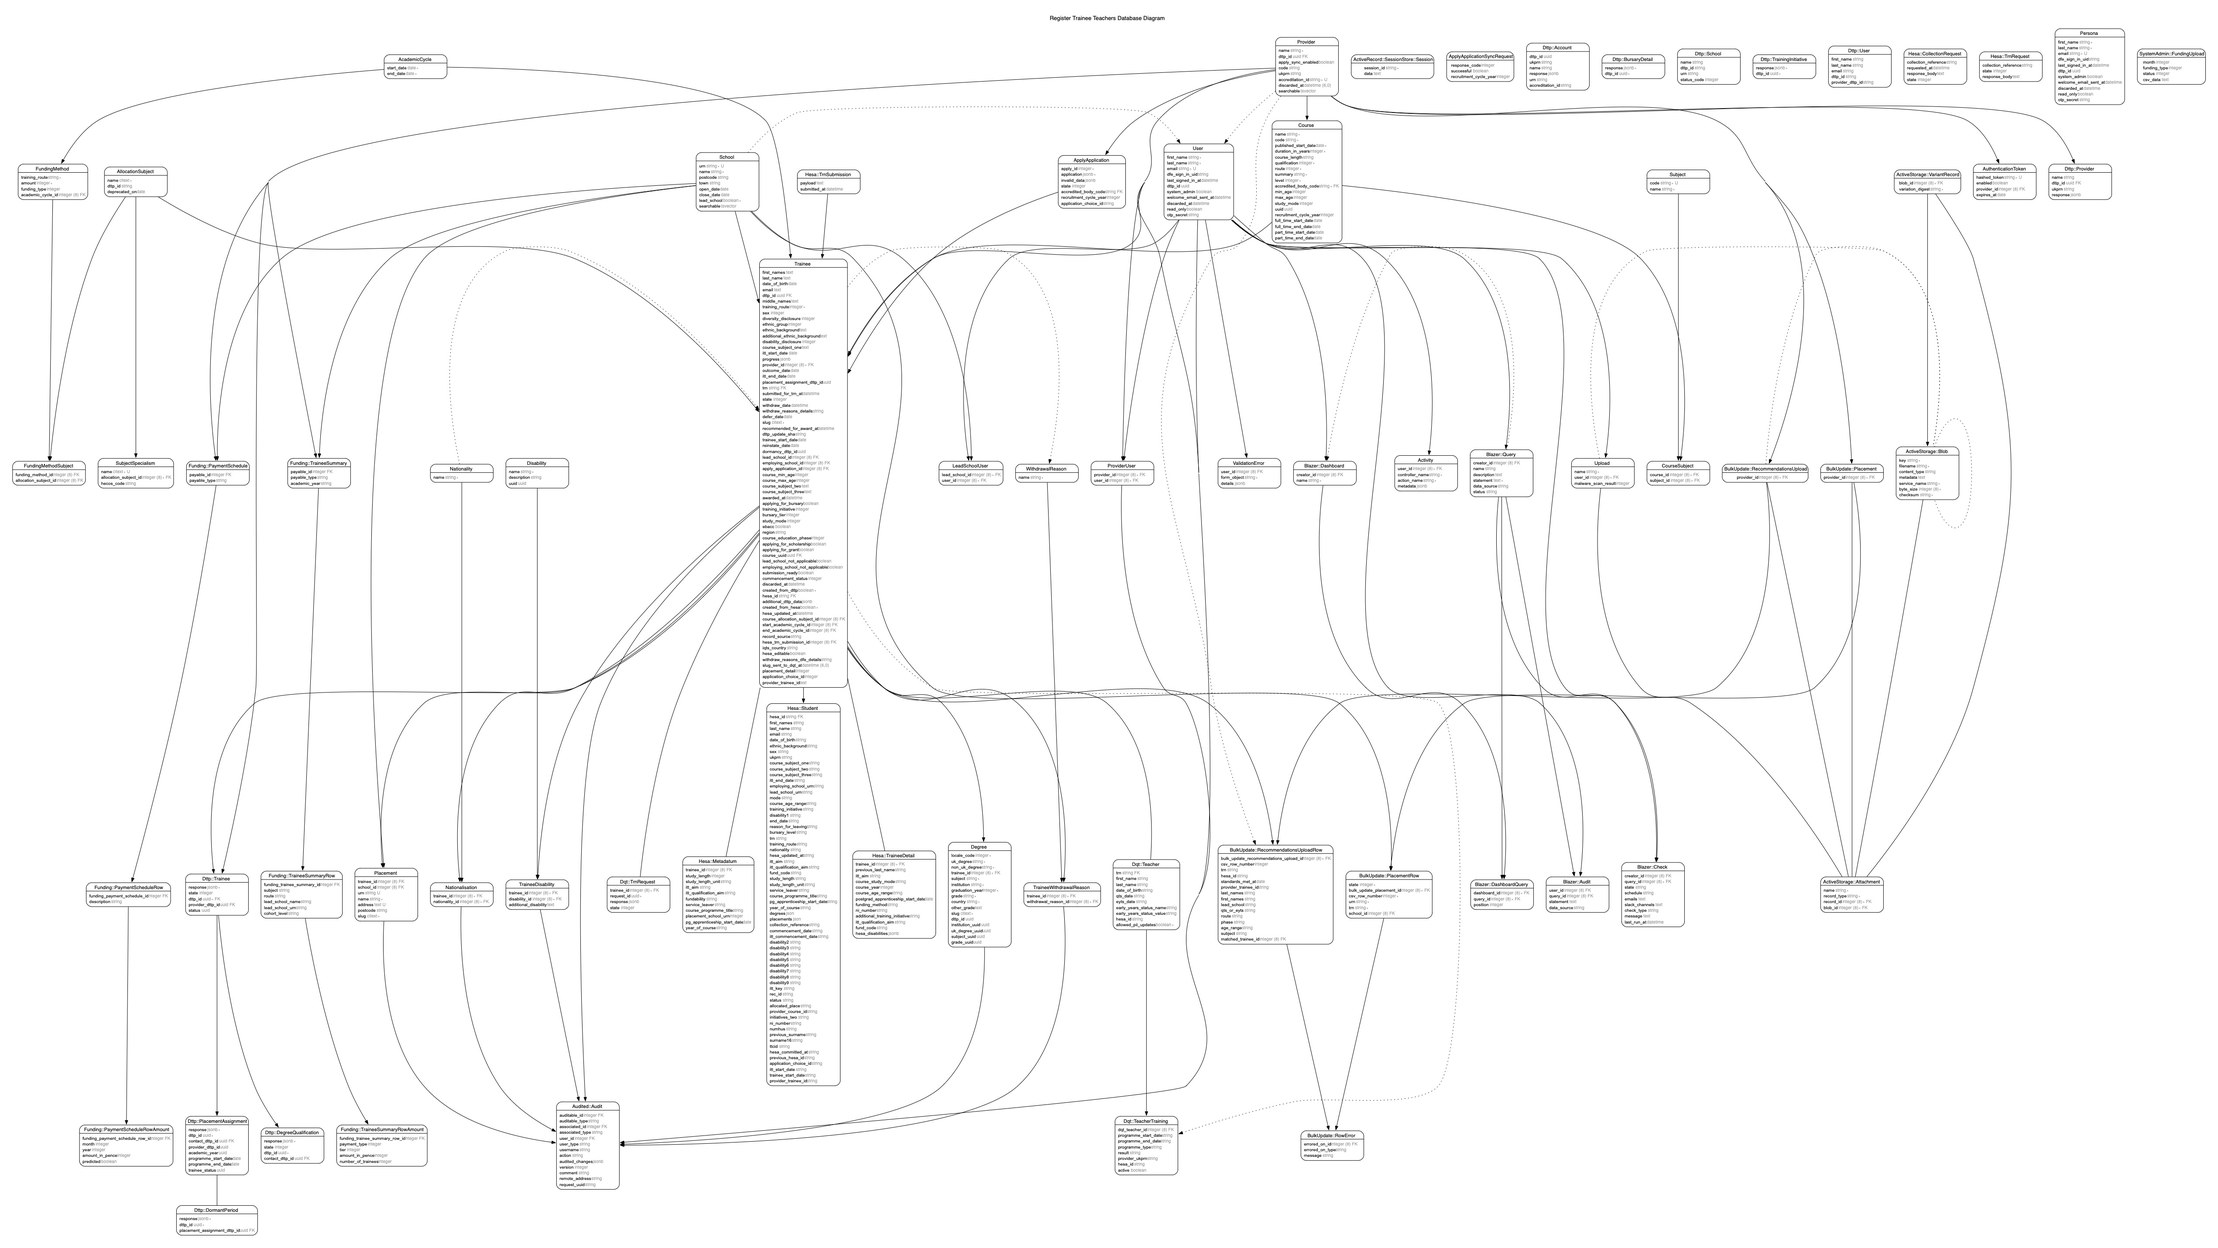
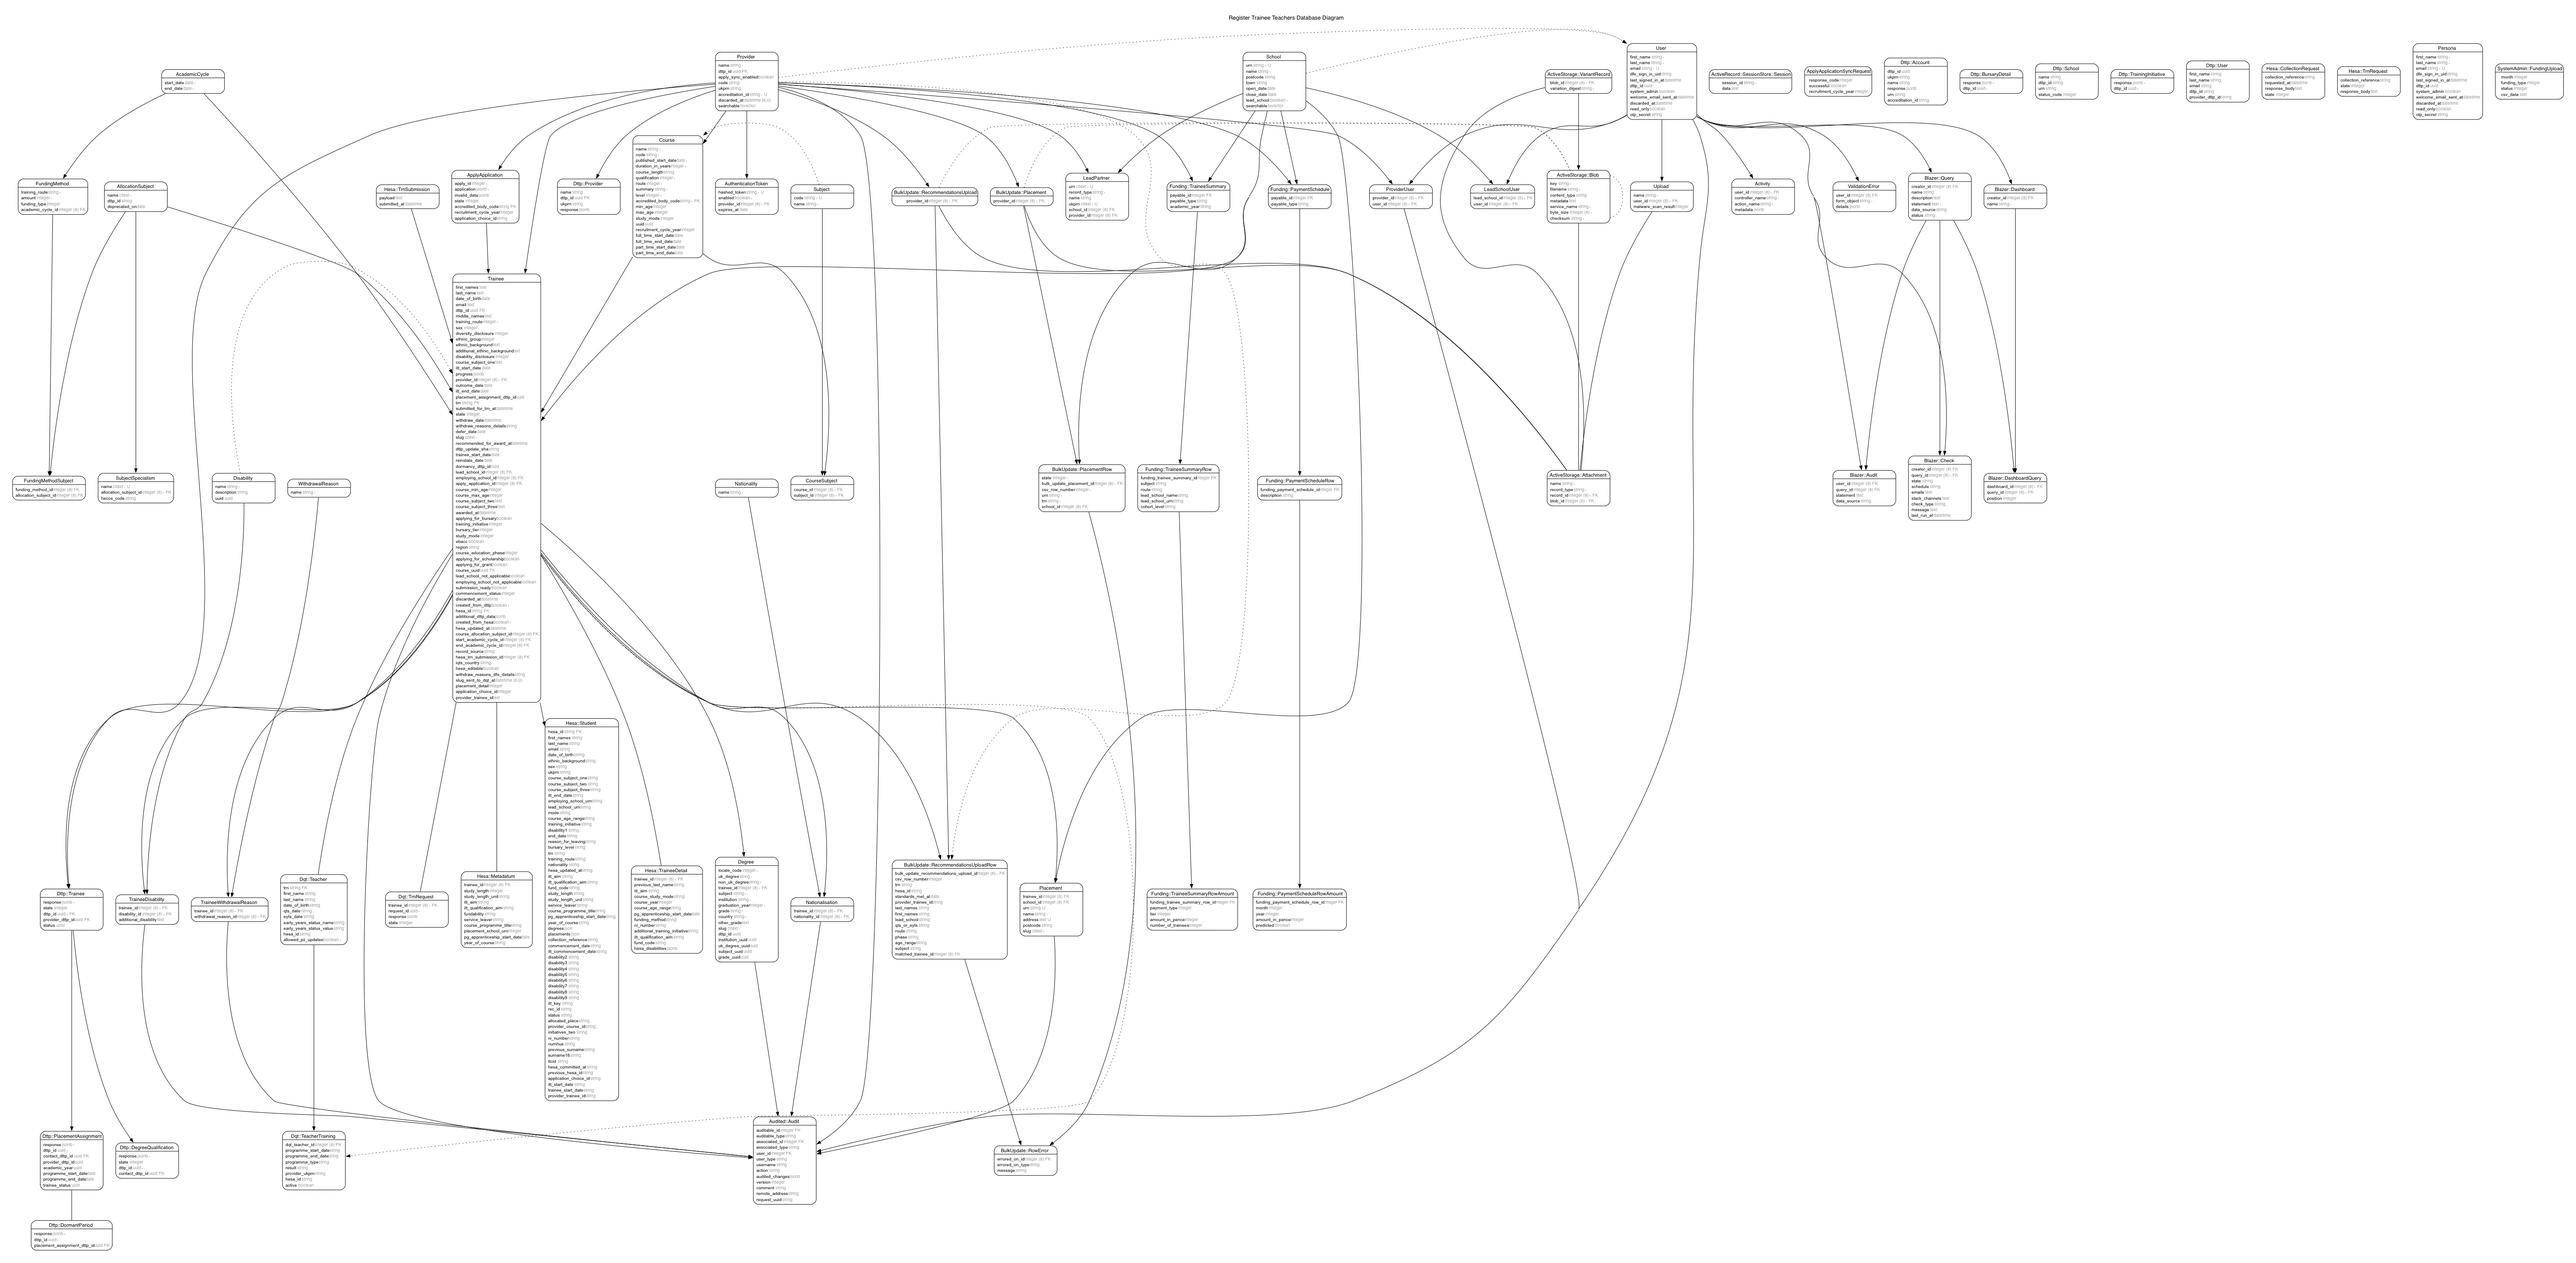
Add migration to create `lead_partners` table

diff --git a/db/schema.rb b/db/schema.rb
@@ -10,7 +10,7 @@
 #
 # It's strongly recommended that you check this file into your version control system.
 
-ActiveRecord::Schema[7.1].define(version: 2024_05_15_134857) do
+ActiveRecord::Schema[7.1].define(version: 2024_05_20_150321) do
   # These are extensions that must be enabled in order to support this database
   enable_extension "btree_gist"
   enable_extension "citext"
@@ -646,10 +646,10 @@ ActiveRecord::Schema[7.1].define(version: 2024_05_15_134857) do
     t.string "surname16"
     t.string "ttcid"
     t.string "hesa_committed_at"
+    t.string "previous_hesa_id"
     t.string "application_choice_id"
     t.string "itt_start_date"
     t.string "trainee_start_date"
-    t.string "previous_hesa_id"
     t.string "provider_trainee_id"
     t.index ["hesa_id", "rec_id"], name: "index_hesa_students_on_hesa_id_and_rec_id", unique: true
   end
@@ -686,6 +686,21 @@ ActiveRecord::Schema[7.1].define(version: 2024_05_15_134857) do
     t.datetime "submitted_at", precision: nil
     t.datetime "created_at", null: false
     t.datetime "updated_at", null: false
+  end
+
+  create_table "lead_partners", force: :cascade do |t|
+    t.citext "urn", null: false
+    t.string "record_type", null: false
+    t.string "name"
+    t.citext "ukprn"
+    t.bigint "school_id"
+    t.bigint "provider_id"
+    t.datetime "created_at", null: false
+    t.datetime "updated_at", null: false
+    t.index ["provider_id"], name: "index_lead_partners_on_provider_id"
+    t.index ["school_id"], name: "index_lead_partners_on_school_id"
+    t.index ["ukprn"], name: "index_lead_partners_on_ukprn", unique: true
+    t.index ["urn"], name: "index_lead_partners_on_urn", unique: true
   end
 
   create_table "lead_school_users", force: :cascade do |t|
@@ -984,6 +999,8 @@ ActiveRecord::Schema[7.1].define(version: 2024_05_15_134857) do
   add_foreign_key "dqt_trn_requests", "trainees"
   add_foreign_key "funding_methods", "academic_cycles"
   add_foreign_key "hesa_trainee_details", "trainees"
+  add_foreign_key "lead_partners", "providers"
+  add_foreign_key "lead_partners", "schools"
   add_foreign_key "lead_school_users", "schools", column: "lead_school_id"
   add_foreign_key "lead_school_users", "users"
   add_foreign_key "nationalisations", "nationalities"

diff --git a/db/migrate/20240520150321_create_lead_partners.rb b/db/migrate/20240520150321_create_lead_partners.rb
@@ -1,0 +1,18 @@
+# frozen_string_literal: true
+
+class CreateLeadPartners < ActiveRecord::Migration[7.1]
+  def change
+    create_table :lead_partners do |t|
+      t.citext :urn, null: false
+      t.string :record_type, null: false
+      t.string :name
+      t.citext :ukprn
+      t.references :school, null: true, foreign_key: true
+      t.references :provider, null: true, foreign_key: true
+      t.timestamps
+    end
+
+    add_index :lead_partners, :urn, unique: true
+    add_index :lead_partners, :ukprn, unique: true
+  end
+end
